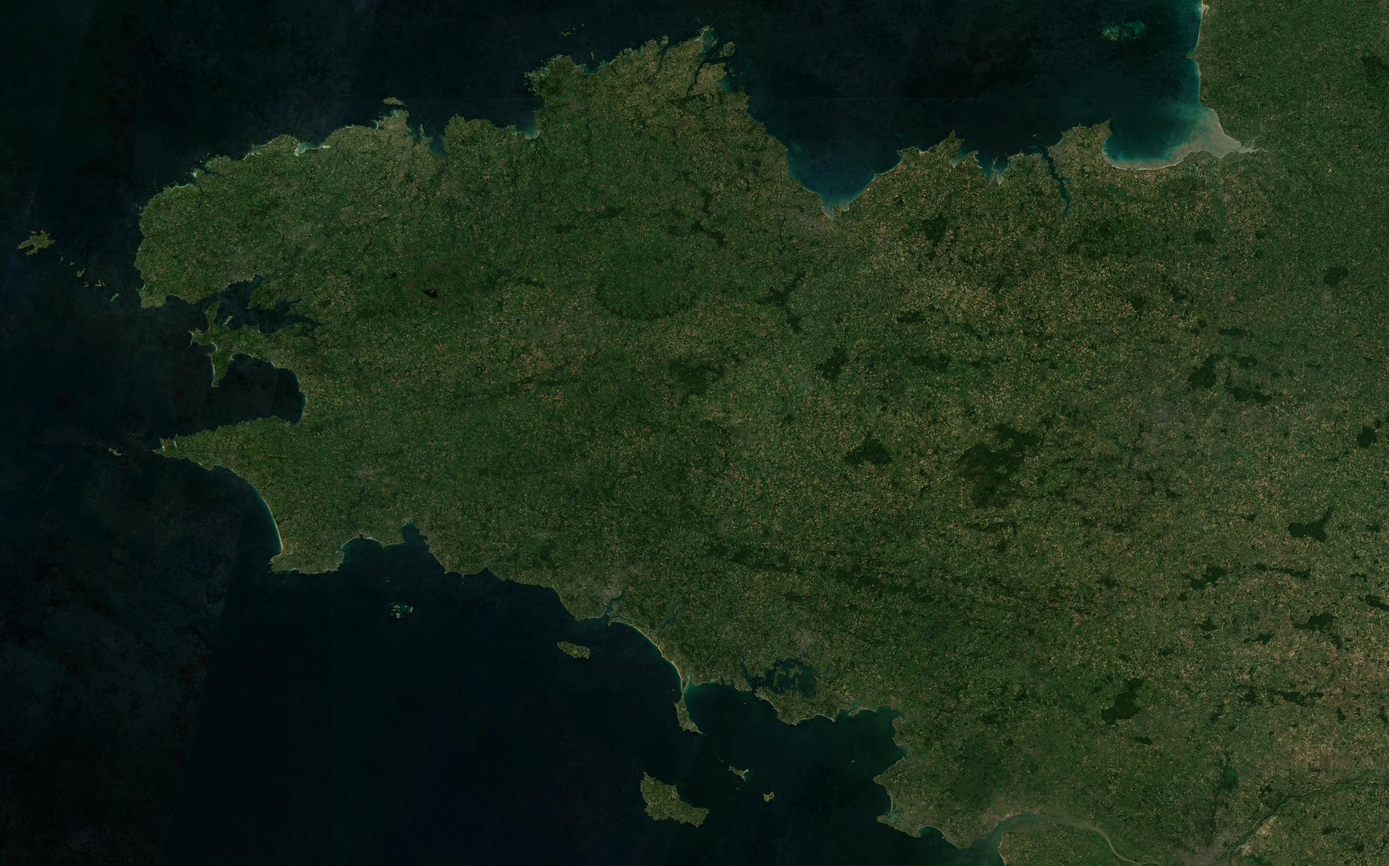
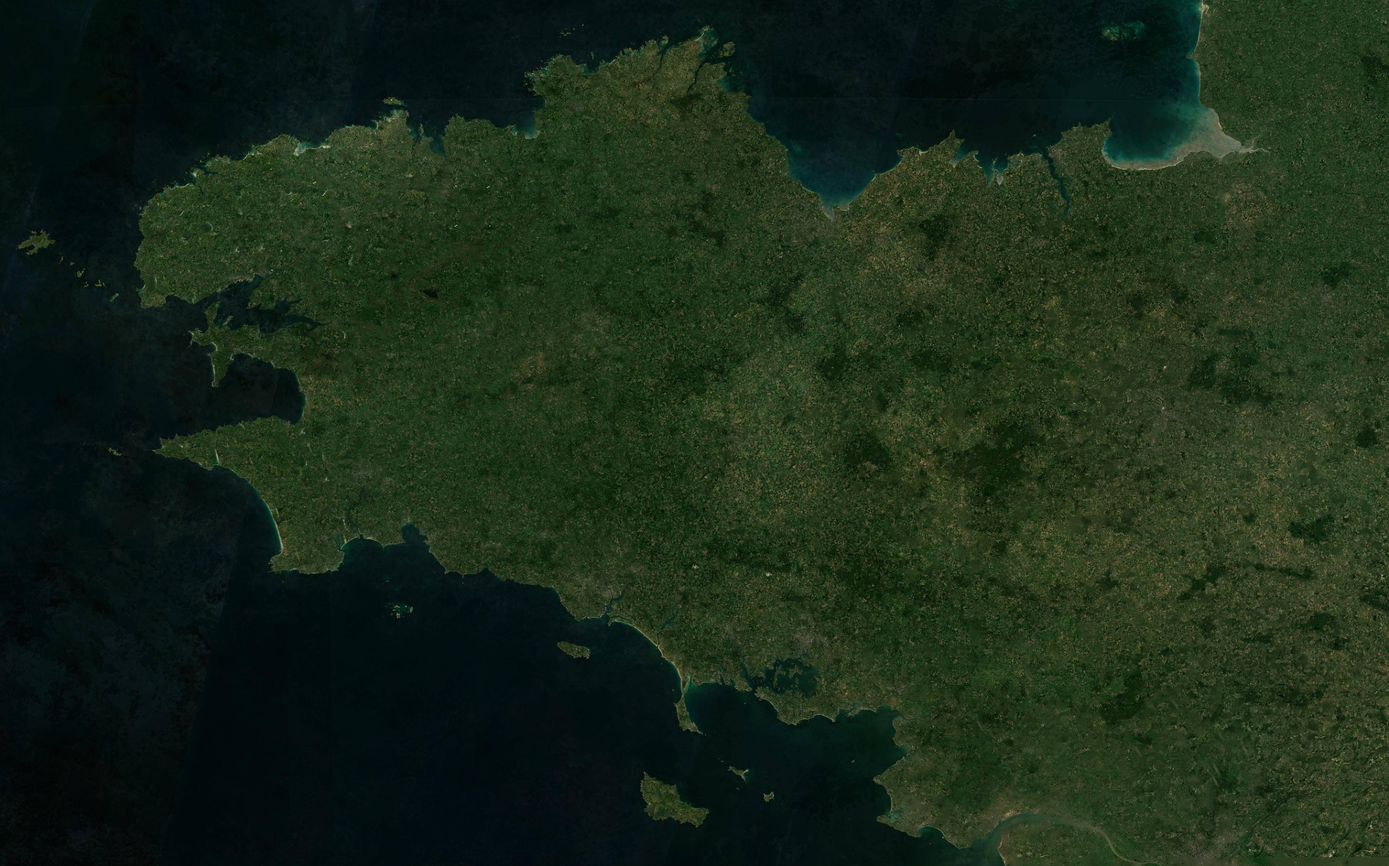
Mundi II: fields painted out too, one combined picture, no layer button
Farmland, orchards, vineyards, allotments and farmyards are now painted out of every satellite
picture as well (OSM in the spots, the standard OSM map elsewhere, Rhodes included), quilted with
woods, scrub and meadows from nearby. There is one picture now: the geology with the plants we
reason out, the satellite laid over it at 55 %; the Natur/Fels/Flora button is gone.
Which model draws a pixel is decided where its ray meets sea level, the same point for every
model, so seams no longer leave pixels nobody draws.

Claude-Session: https://claude.ai/code/session_015y9JAWLouqFfDLSFkX3oNa

diff --git a/public/crusaders/welt2/index.html b/public/crusaders/welt2/index.html
@@ -40,7 +40,6 @@ html, body { margin: 0; height: 100%; overflow: hidden; background: #0b1a2a; fon
 <div class="bar">
   <button type="button" id="bOrte"><span>📍</span>Orte</button>
   <button type="button" id="bGenesis"><span>🌋</span>Genesis</button>
-  <button type="button" id="bSchicht"><span>🌿</span>Natur</button>
   <button type="button" id="bTauch"><span>🤿</span>Tauchen</button>
   <button type="button" id="bWolken" class="on"><span>☁</span>Wolken</button>
   <button type="button" id="bMeer" class="on"><span>🌊</span>Meer</button>
@@ -337,8 +336,12 @@ const COMMON = `
   // three levels of detail: Rhodes (0), the eastern Aegean (1), the world (2). At their seams they are mixed pixel by
   // pixel: over the last 10 km inside the Rhodes box, over the last 25 km inside the Aegean one
   uniform float uWorldOn, uRegOn; uniform vec4 uRBox; uniform sampler2D uRegH, uRegM, uRegL, uRegN, uRegSat;
+  // which model draws a pixel is decided where the pixel's ray meets sea level, the same point for every model,
+  // not where each model's own surface happens to be: otherwise at a seam sometimes none of them draws
+  vec2 refP(vec2 p) { if (uCam.y < 0.002 || uCam.y <= vP.y + 0.001) return p; return uCam.xz + (vP.xz - uCam.xz) * (uCam.y / (uCam.y - vP.y)); }
   float edgeIn(vec2 p, vec4 b) { return min(min(p.x - b.x, b.x + b.z - p.x), min(p.y - b.y, b.y + b.w - p.y)); }
   float lod(vec2 p) {
+    p = refP(p);
     float inR = edgeIn(p, uBox);
     if (uWorldOn < 0.5) return inR > 0.0 ? 0.0 : 3.0;
     float r = fract(52.9829189 * fract(dot(gl_FragCoord.xy, vec2(0.06711056, 0.00583715))));
@@ -352,6 +355,7 @@ const COMMON = `
   uniform vec4 uSB[3], uMB[2];
   float spotHere(vec2 p) {
     if (uWorldOn < 0.5) return 0.0;
+    p = refP(p);
     float r = fract(52.9829189 * fract(dot(gl_FragCoord.xy, vec2(0.06711056, 0.00583715))));
     for (int i = 0; i < 3; i++) if (uSB[i].z > 0.0 && r < smoothstep(0.0, 1.5, edgeIn(p, uSB[i]))) return 1.0;
     return 0.0;
@@ -359,6 +363,7 @@ const COMMON = `
   // the middle level of these spots (South-West Germany, Brittany): mixed with the world over its last 15 km
   float midHere(vec2 p) {
     if (uWorldOn < 0.5) return 0.0;
+    p = refP(p);
     float r = fract(52.9829189 * fract(dot(gl_FragCoord.xy, vec2(0.06711056, 0.00583715))));
     for (int i = 0; i < 2; i++) if (uMB[i].z > 0.0 && r < smoothstep(0.0, 15.0, edgeIn(p, uMB[i]))) return 1.0;
     return 0.0;
@@ -1019,16 +1024,10 @@ el.addEventListener("contextmenu", (e) => e.preventDefault());
 $("#bWolken").onclick = () => { U.uClouds.value = 1 - U.uClouds.value; $("#bWolken").classList.toggle("on", U.uClouds.value > 0.5); clouds.visible = U.uClouds.value > 0.5; };
 $("#bMeer").onclick = () => { U.uSea.value = 1 - U.uSea.value; sea.visible = U.uSea.value > 0.5; $("#bMeer").classList.toggle("on", sea.visible); $("#info").textContent = sea.visible ? "" : `Ohne Wasser: der Meeresboden, ${String(EX_SEA).replace(".", ",")}-fach überhöht`; };
 
-// the layer: the land as it lives (satellite, without people), or bare rock as the geologist sees it
-// three layers: Natur (the satellite picture, without people), Fels (bare geology), Flora (the geology with plants we draw)
-const LAYERS = [["natur", "🛰", "Natur"], ["fels", "🪨", "Fels"], ["flora", "🌲", "Flora"]];
-let layer = 0; try { layer = Math.max(0, LAYERS.findIndex((l) => l[0] === localStorage.getItem("mundi2-schicht"))); } catch (e) {}
-let life = 1, veg = 0;
-function showLayer() {
-  const b = $("#bSchicht"); b.firstChild.textContent = LAYERS[layer][1]; b.lastChild.textContent = LAYERS[layer][2];
-  life = layer === 0 ? 1 : 0; veg = layer === 2 ? 1 : 0; if (!gen) { U.uLife.value = life; U.uVeg.value = veg; }
-}
-$("#bSchicht").onclick = () => { layer = (layer + 1) % LAYERS.length; try { localStorage.setItem("mundi2-schicht", LAYERS[layer][0]); } catch (e) {} showLayer(); };
+// one picture of everything: the geology with the plants we reason out, and the satellite (people and fields painted
+// out) laid over it at a little over half, so the real pattern of woods and scrub and our relief both carry
+const life = 0.55, veg = 1;
+function showLayer() { if (!gen) { U.uLife.value = life; U.uVeg.value = veg; } }
 $("#bGenesis").onclick = () => genesis();
 // places: a flight there, out high enough to see both ends and down again
 const PLACES = [["Rhodos", "die Insel", [28.0, 36.25, 95, 0.75]], ["Ostägäis", "Dodekanes und Karien", [27.6, 36.7, 520, 0.95]], ["Südwestdeutschland", "Schwarzwald, Alb, Bodensee", [9.0, 48.4, 260, 0.95]], ...SPOTS.map((sp) => [sp.name, sp.sub, sp.look]), ["Bretagne", "die Côte de Granit Rose und mehr", [-3.1, 48.1, 340, 0.95]], ["Welt", "die ganze Karte", [15, 30, 26000, 1.3]]];
